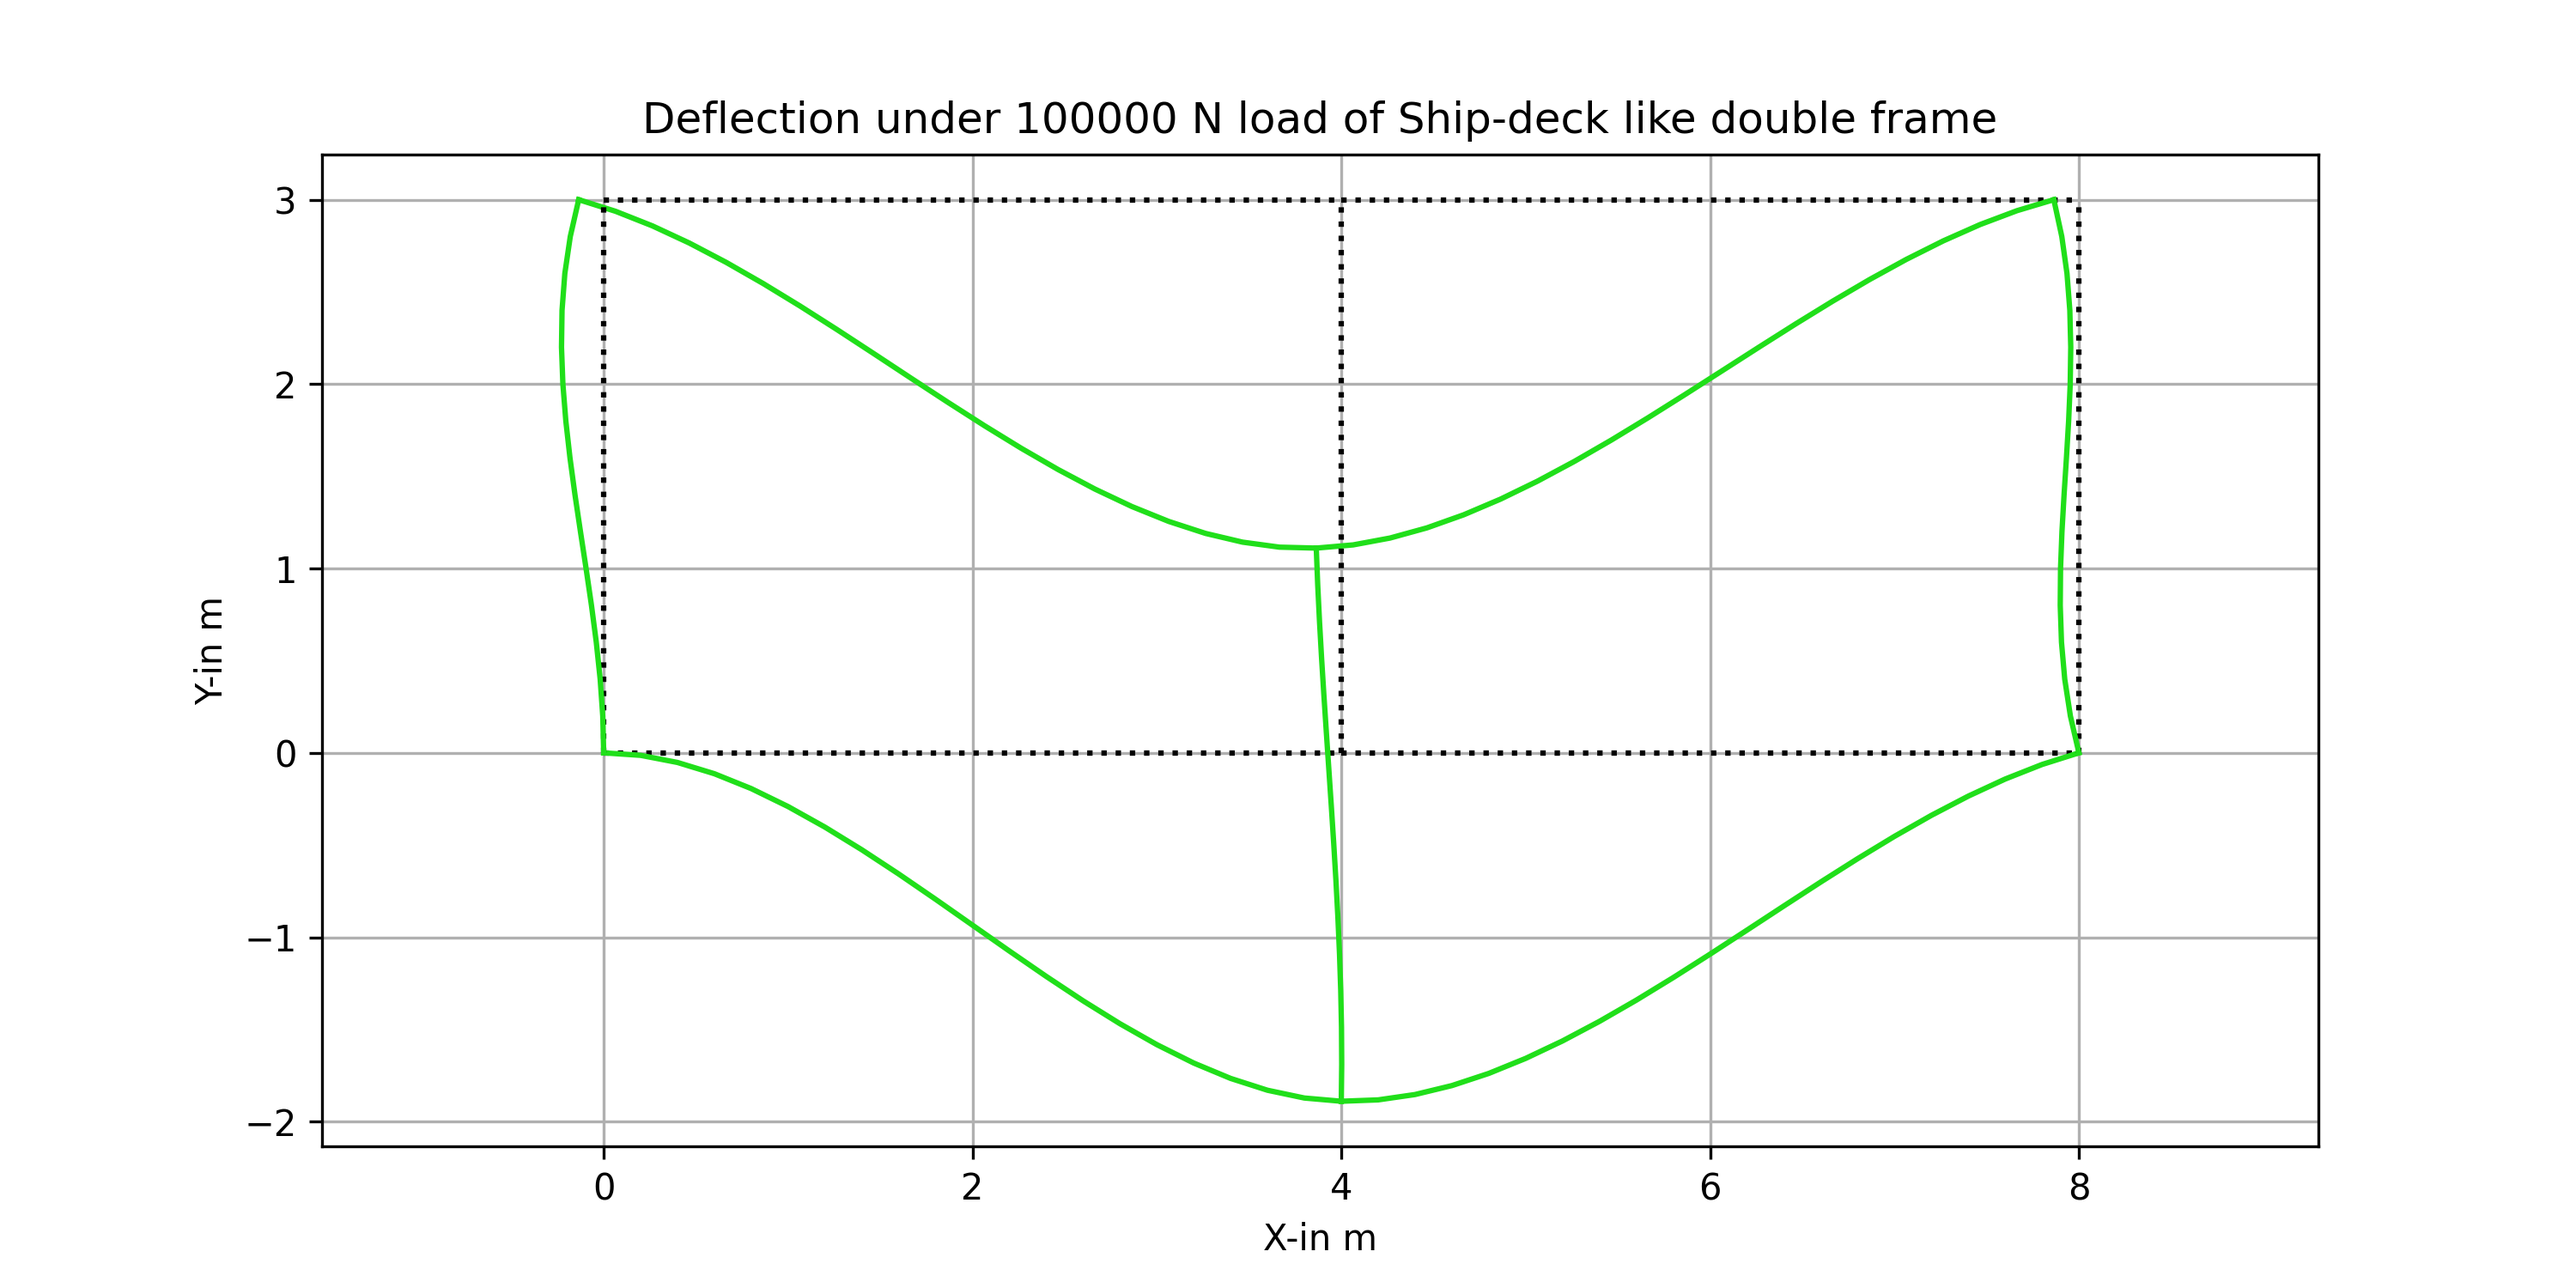
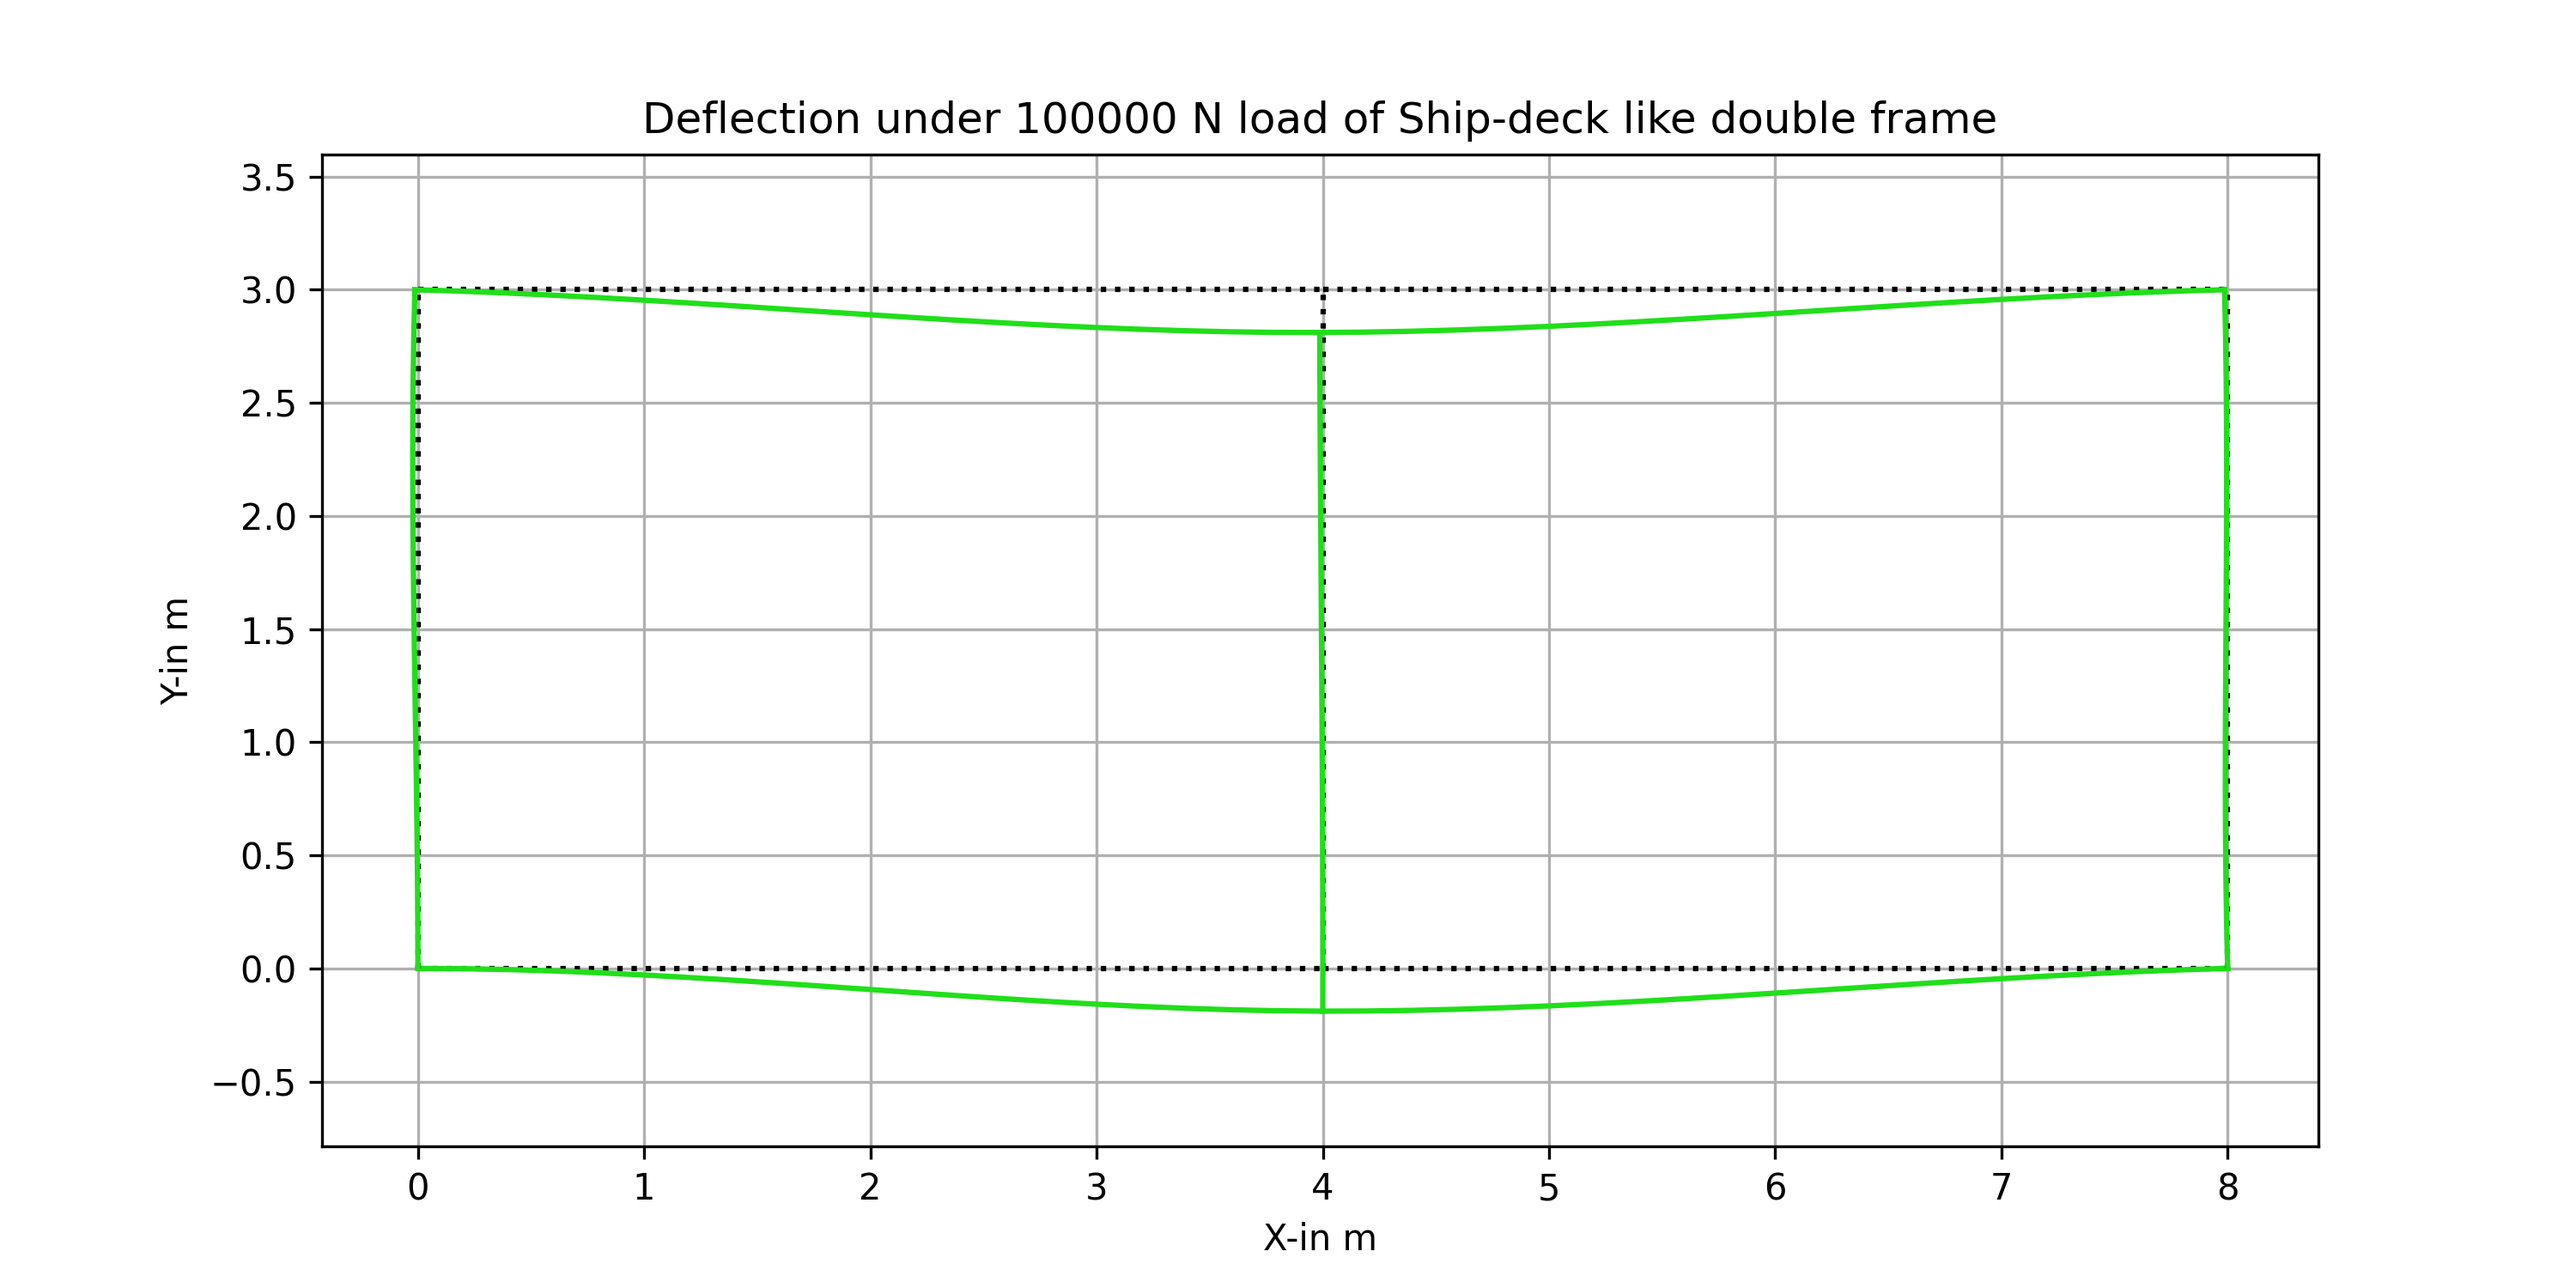
Stress extraction done!!!!!

diff --git a/shipdeckframe/stressextractor.py b/shipdeckframe/stressextractor.py
@@ -45,46 +45,80 @@ def d3Nb_dx3(x, L):
     d3H4_dx3 = 6/(L**2)
     return np.array([d3H1_dx3, d3H2_dx3, d3H3_dx3, d3H4_dx3])
 
-def stressextract(dofs, u, details):
-    u_l = u[dofs[1]]
-    T = ut.transformation(details[1][1])
+def stressextract(dofs, u, details, id):
+    u_l = u[dofs]
+    T = ut.transformation(details[id][1])
     u_l = T @ u_l
-    x = np.arange(0, 11) * 0.02
+    x = np.arange(0, 6) * details[id][2] / 5
     uvals = u_l[[0, 3]]
     vvals = u_l[[1, 2, 4, 5]]
     U = np.zeros_like(x)
     V = np.zeros_like(x)
     for i in range(len(x)):
-        N = dNa_dx(x[i], details[1][2])
-        B = d2Nb_dx2(x[i], details[1][2])
+        N = dNa_dx(x[i], details[id][2])
+        B = d2Nb_dx2(x[i], details[id][2])
         u_x  = N @ uvals
         v_xx = B @ vvals
         U[i] = u_x
         V[i] = v_xx
     y = np.arange(-2, 3) * t / 4
+    # print(U, V)
     U = np.repeat(U[np.newaxis, :], repeats=y.shape[0], axis = 0)
     y = y.reshape(len(y), 1)
     V = V.reshape(1, len(V))
-    stress = E * (U + (y @ V))
-    
+    strain = U - (y @ V)
+    stress = E * strain
     return stress
 
-element_nodes = [0, 1]
-dof = {1 : np.array([3*element_nodes[0], 3*element_nodes[0]+1, 3*element_nodes[0]+2, 3*element_nodes[1], 3*element_nodes[1]+1, 3*element_nodes[1]+2])}
+elems = np.array([[1, 2, 0, 0, 0]])
+for i in details:
+    node1s = details[i][0][:-1]
+    node2s = details[i][0][1:]
+    ids = i*np.ones(len(node1s), dtype = int)
+    x1s = details[i][3][:-1]
+    y1s = details[i][4][:-1] 
+    elem = np.array([node1s, node2s, ids, x1s, y1s]).T
+    elems = np.concatenate([elems, elem], axis = 0)
+elems = elems[1:, :]
+#print(nodes)
 
-ele1stress = stressextract(dof, u, details)
-plt.figure(figsize=(11, 1))
-x = np.arange(0, 11) * 0.02
-y = np.arange(-2, 3) * t / 4
-X, Y = np.meshgrid(x, y)
-stress_plot = plt.contourf(X, Y, ele1stress, levels=20, cmap='jet')
-colorbar = plt.colorbar(stress_plot)
-colorbar.set_label('Von Mises Stress (MPa)', fontsize=11)
-plt.title('Stress Contour Plot (Structured Grid)', fontsize=12)
-plt.xlabel('X Coordinate (mm)')
-plt.ylabel('Y Coordinate (mm)')
-plt.grid(True, alpha=0.3)
+framestress = []
+for node in elems:
+    N1 = int(node[0])
+    N2 = int(node[1])
+    dofs = np.array([3*N1, 3*N1+1, 3*N1+2, 3*N2, 3*N2+1, 3*N2+2])
+    stress = stressextract(dofs, u, details, node[2])
+    framestress.append(stress)
 
+#print(framestress[85])
+
+x = np.arange(0,6) * 0.04
+y = np.arange(-2,3) * t / 4
+grid = np.array(np.meshgrid(x, y))
+grid = np.moveaxis(grid, 0, -1)
+
+finalcoords = np.array([])
+for i in range(len(elems)):
+    T = ut.coordinate_transfor(details[elems[i][2]][1])
+    coords = grid @ T + np.array([elems[i][3], elems[i][4]])
+    coords = np.round(coords, 3)
+    if i == 0:
+        finalcoords = np.array([coords])
+    else:
+        finalcoords = np.append(finalcoords, [coords], axis = 0)
+
+fig, ax = plt.subplots()
+for e in range(len(elems)):
+    x = finalcoords[e, :, :, 0]
+    y = finalcoords[e, :, :, 1]
+    stress = framestress[e]
+    pcm = ax.pcolormesh(
+        x,
+        y,
+        stress,
+        shading='gouraud',
+        cmap='RdBu_r'
+    )
+fig.colorbar(pcm, ax=ax, label="Stress (Pa)")
+plt.axis("equal")
 plt.show()
-
-print(ele1stress)

diff --git a/shipdeckframe/load1.py b/shipdeckframe/load1.py
@@ -9,7 +9,7 @@ N = xy.shape[0]
 alldf = np.arange(0, N)
 eles = len(alldf) - 1
 F = np.zeros(3*N)
-F[184] = -100000
+F[184] = -10000
 u = np.zeros_like(F)
 u[free] = np.linalg.solve(K_red, F[np.ix_(free)])
 
@@ -23,7 +23,7 @@ dfu = pd.DataFrame({
 })
 with pd.ExcelWriter('shipdeckframe/doubleframe.xlsx', mode = 'a', engine = 'openpyxl', if_sheet_exists='replace') as writer:
     dfu.to_excel(writer, sheet_name='Deflection', index= False)
-
+'''
 # __ PLOT _____________________________
 plt.figure(figsize = (10, 5))
 for j in details:
@@ -37,4 +37,4 @@ plt.axis('equal')
 plt.xlabel("X-in m")
 plt.ylabel("Y-in m")
 plt.savefig('shipdeckframe/staticload.png', dpi = 300)
-plt.show()'''
+plt.show()

diff --git a/utlities.py b/utlities.py
@@ -51,3 +51,10 @@ def matrixform(m, M, i, D):
     i2 = 3*D[i+1]
     dof = np.array([i1, i1+1, i1+2, i2, i2+1, i2+2])
     M[np.ix_(dof, dof)] += m
+
+def coordinate_transfor(theta):
+    theta = np.deg2rad(theta)
+    mat = np.array([[ np.cos(theta), np.sin(theta)],
+                    [-np.sin(theta), np.cos(theta)]])
+    
+    return mat
